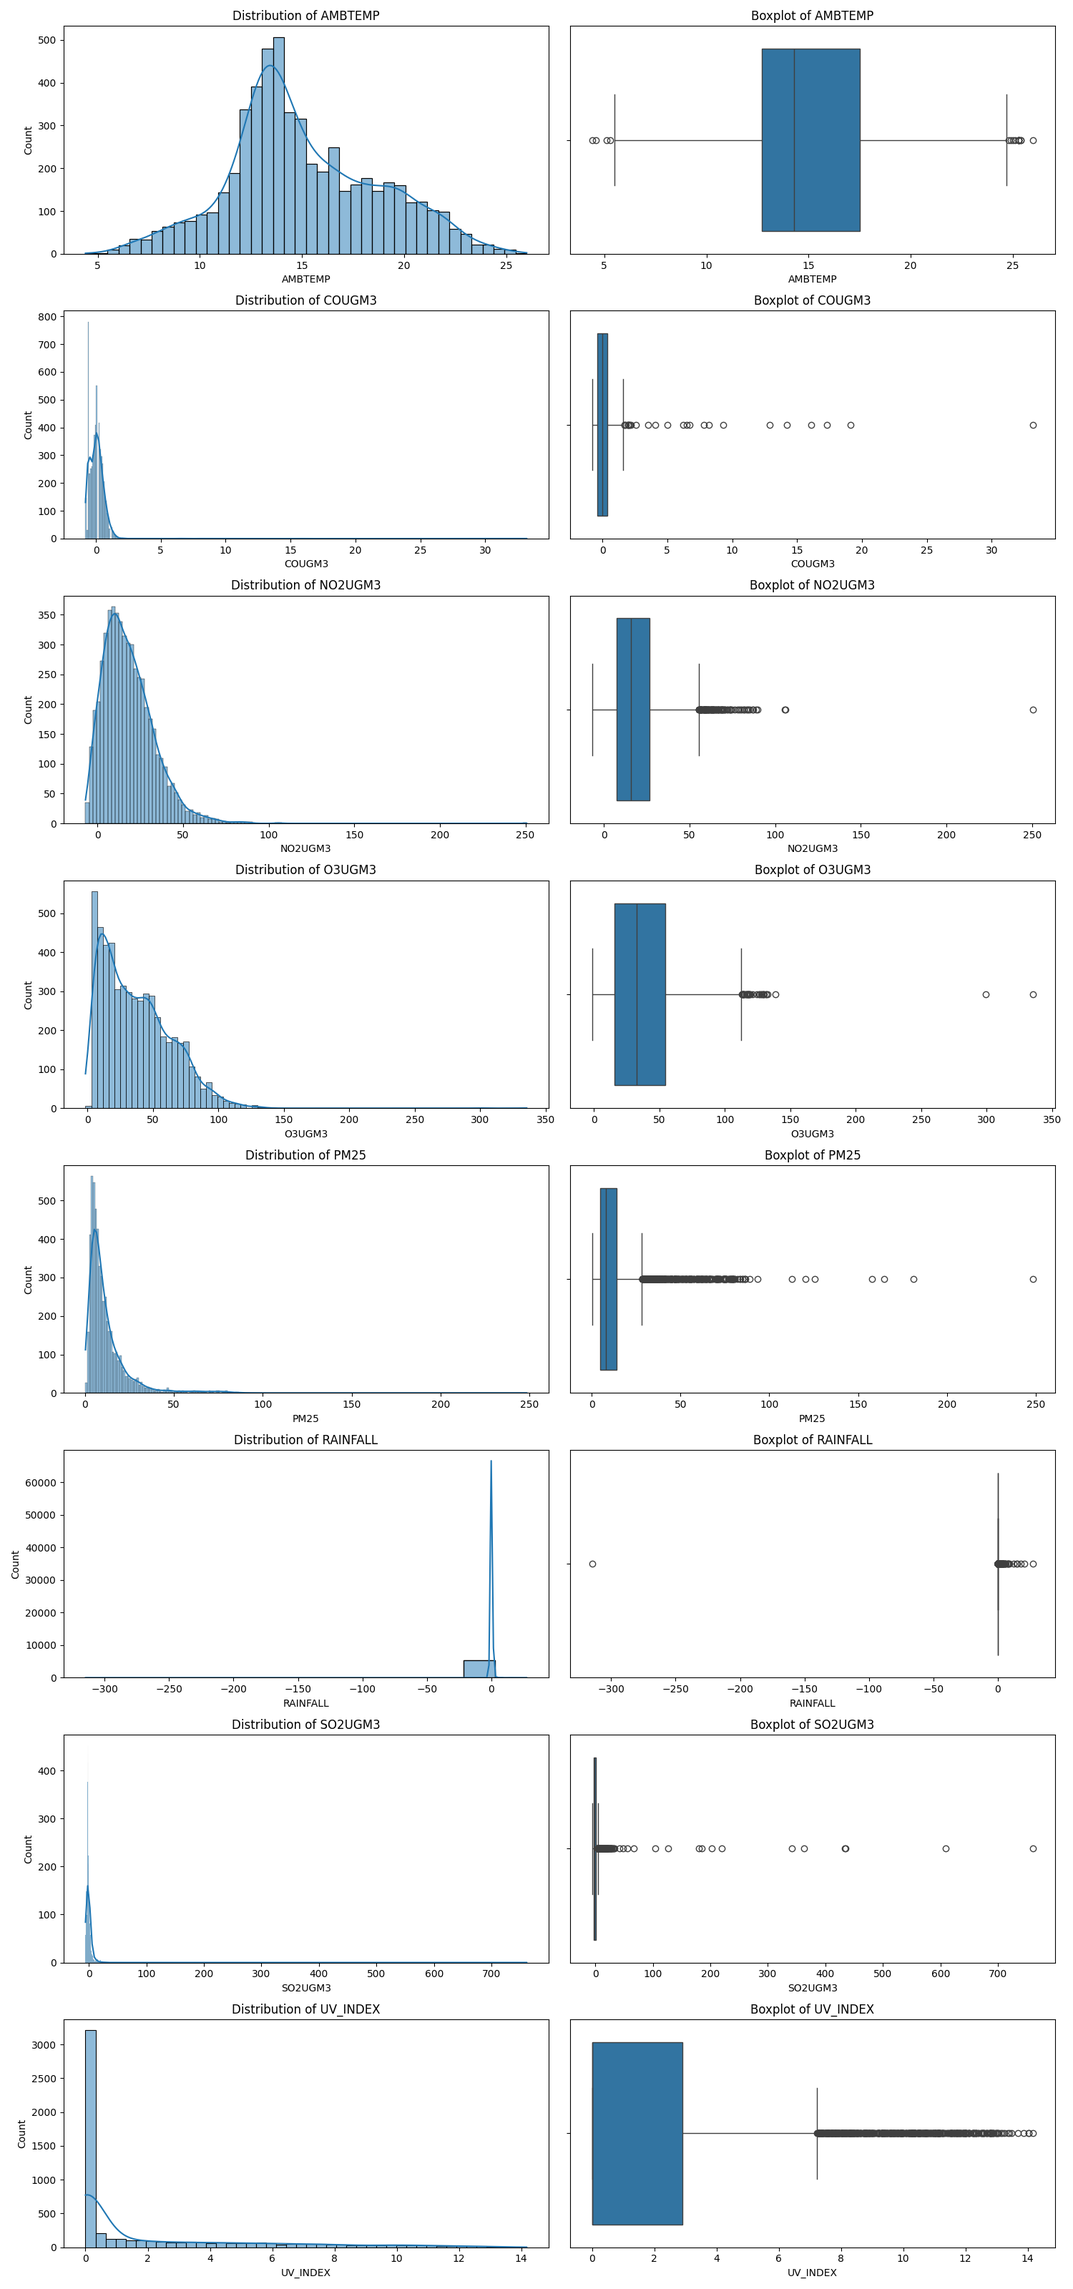
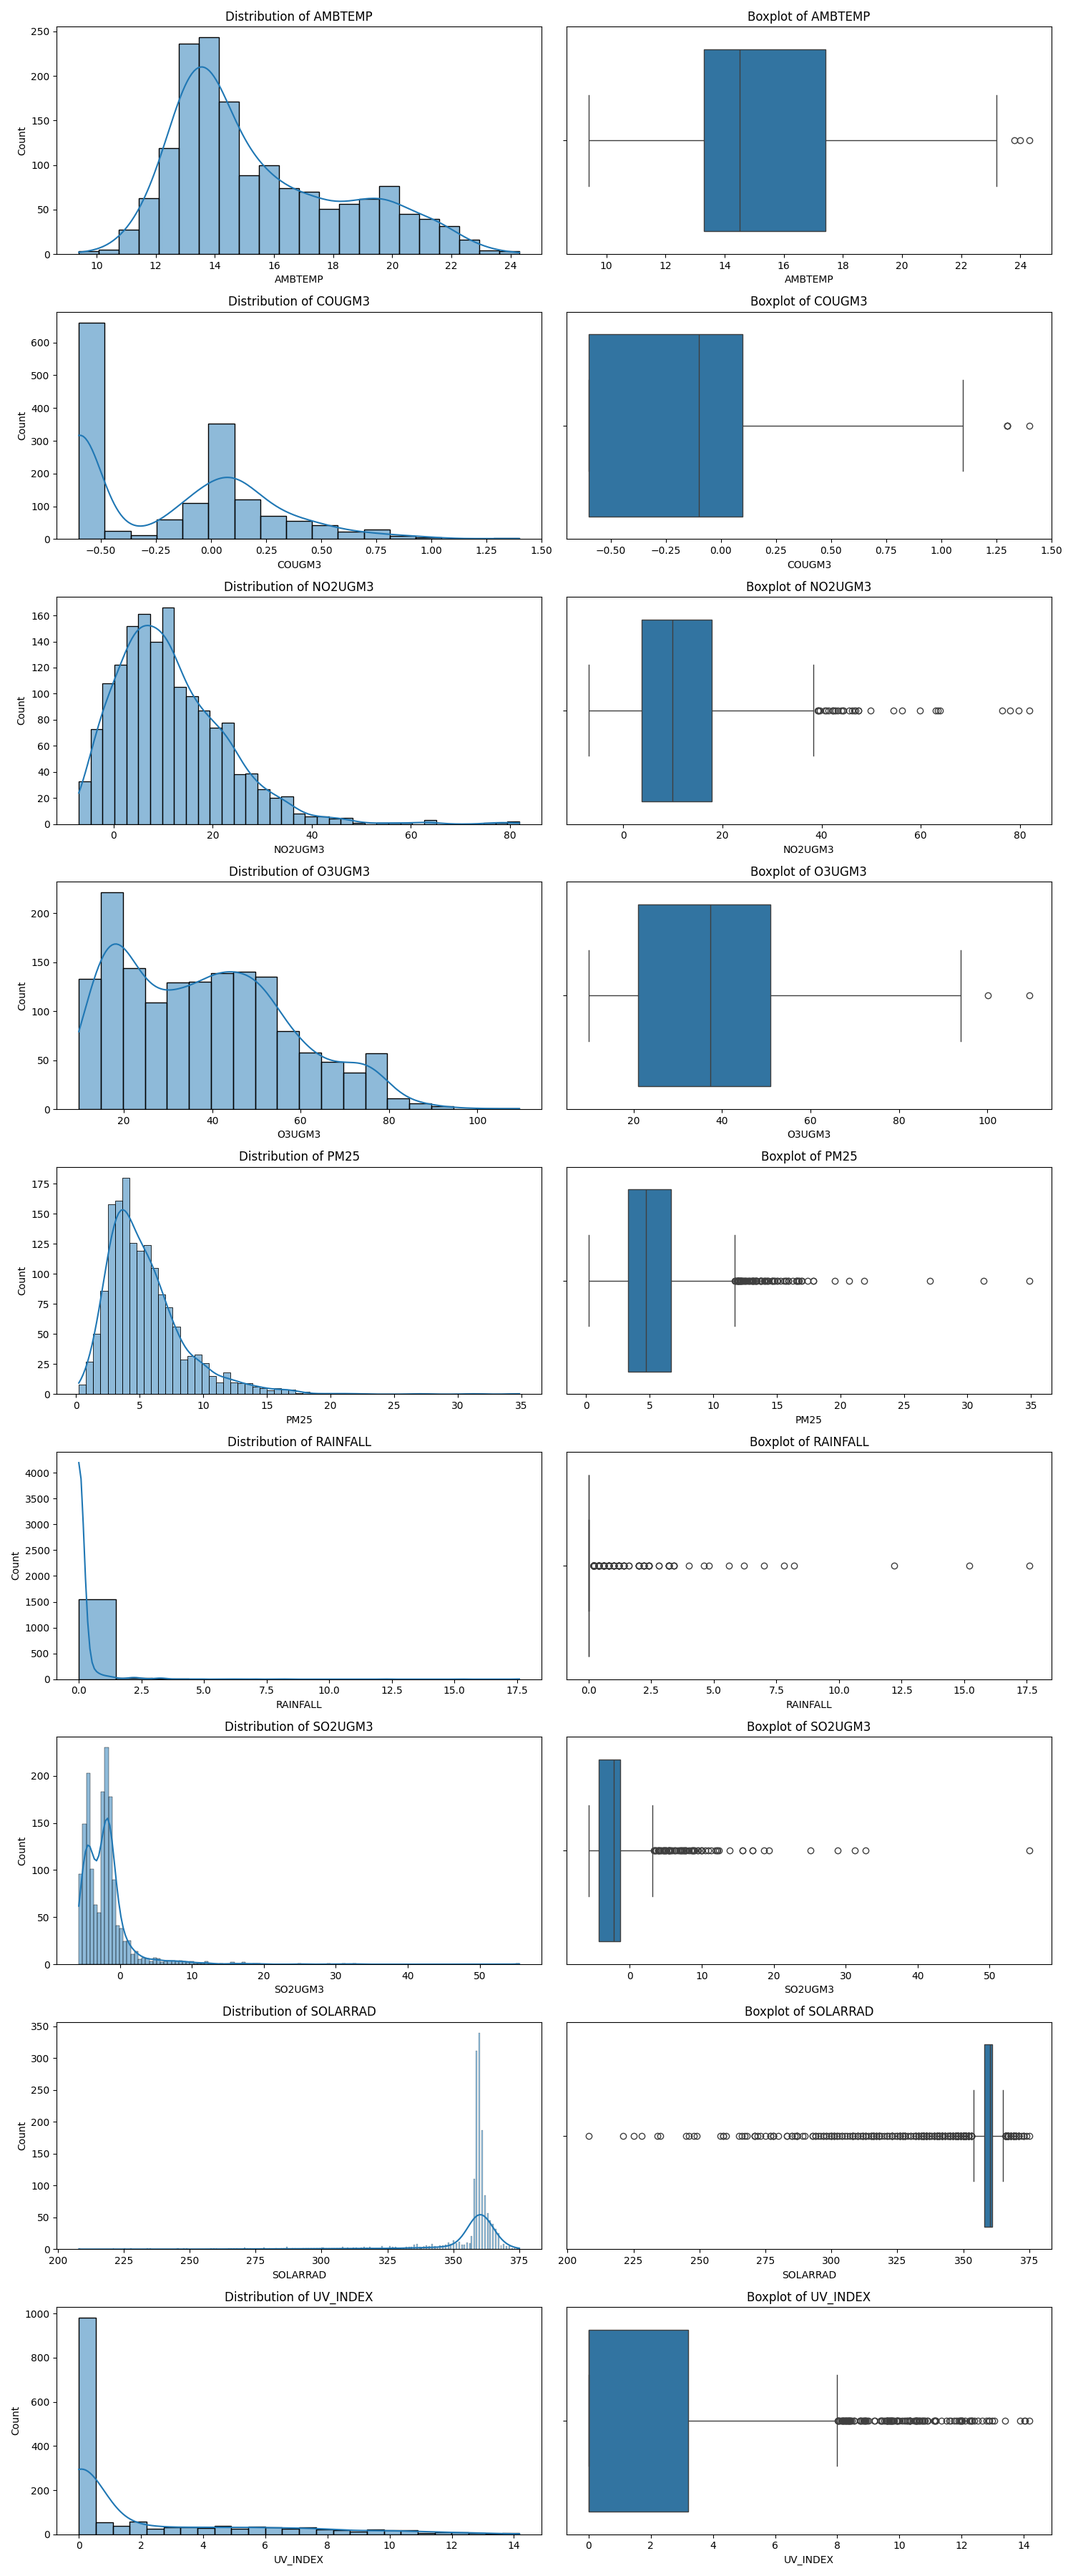
updated explore

diff --git a/explore.py b/explore.py
@@ -16,9 +16,7 @@ def basic_info(df):
   print("\n=== MISSING VALUES ===")
   missing = df.isnull().sum()
   missing_percent = (missing / len(df)) * 100
-  missing_info = pd.DataFrame(
-    {"Missing Values": missing, "Percentage": missing_percent}
-  )
+  missing_info = pd.DataFrame({"Missing Values": missing, "Percentage": missing_percent})
   print(missing_info[missing_info["Missing Values"] > 0])
 
   print("\n=== DUPLICATED ROWS ===")
@@ -95,9 +93,7 @@ def correlation_analysis(df):
   corr_matrix = df[numerical_cols].corr()
 
   plt.figure(figsize=(12, 10))
-  sns.heatmap(
-    corr_matrix, annot=True, cmap="coolwarm", fmt=".2f", linewidths=0.5
-  )
+  sns.heatmap(corr_matrix, annot=True, cmap="coolwarm", fmt=".2f", linewidths=0.5)
   plt.title("Correlation Matrix")
   plt.tight_layout()
   plt.savefig("correlation_matrix.png")
@@ -179,7 +175,7 @@ def time_series_check(df):
 
 def main():
   df = pd.read_csv("data.csv")
-  df.fillna(df.mean(), inplace=True)
+  df.dropna(inplace=True)
 
   print("\n=== FIRST 5 ROWS ===")
   print(df.head())
